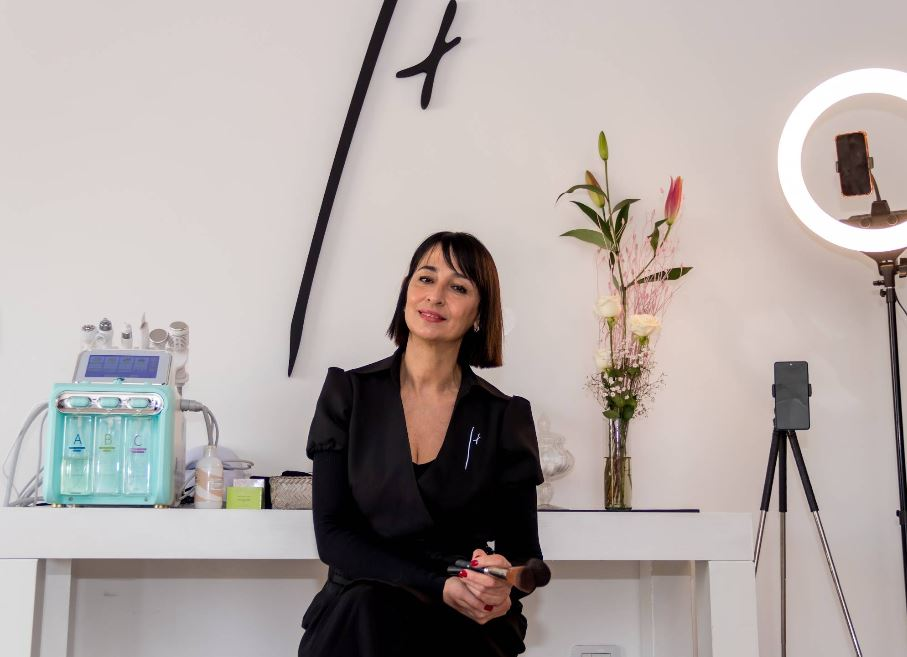
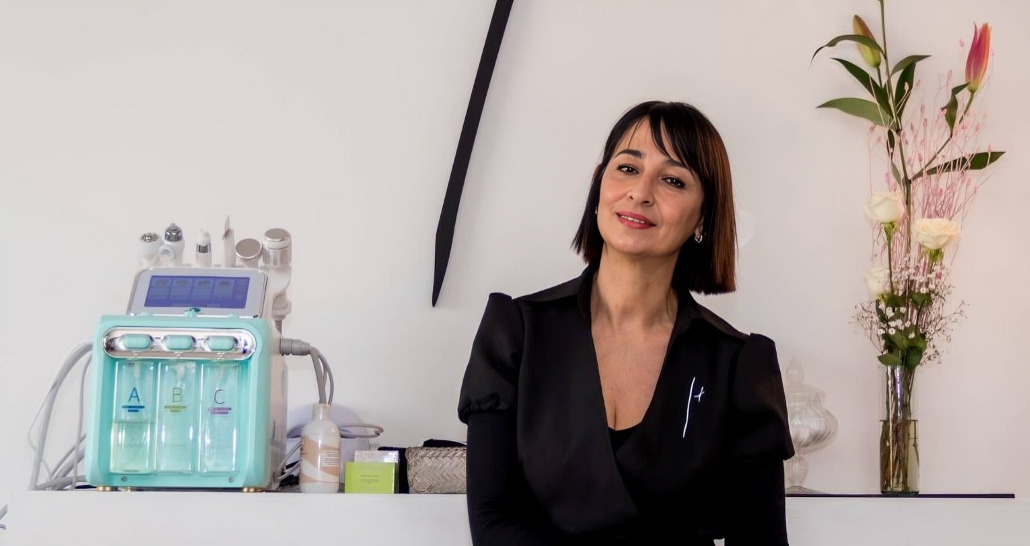
cambios esteticos

diff --git a/src/app/admin/login/page.tsx b/src/app/admin/login/page.tsx
@@ -11,8 +11,8 @@ import { Eye, EyeOff } from "lucide-react";
 
 export default function AdminLoginPage() {
   const router = useRouter();
-  const [email, setEmail] = useState("");
-  const [password, setPassword] = useState("");
+  const [email, setEmail] = useState("[email redacted]");
+  const [password, setPassword] = useState("admin123");
   const [showPassword, setShowPassword] = useState(false);
   const [isLoading, setIsLoading] = useState(false);
   const [error, setError] = useState("");
@@ -117,10 +117,6 @@ export default function AdminLoginPage() {
           </CardContent>
         </Card>
 
-        {/* Demo credentials hint */}
-        <p className="text-xs text-muted-foreground text-center mt-6">
-          Demo: [email redacted] / admin123
-        </p>
       </div>
     </div>
   );

diff --git a/src/app/page.tsx b/src/app/page.tsx
@@ -1,7 +1,7 @@
 import { Header } from "@/components/sections/header";
 import { Hero } from "@/components/sections/hero";
 import { Services } from "@/components/sections/services";
-import { Portfolio } from "@/components/sections/portfolio";
+import { Espacio } from "@/components/sections/espacio";
 import { About } from "@/components/sections/about";
 import { Testimonials } from "@/components/sections/testimonials";
 import { Program } from "@/components/sections/program";
@@ -14,7 +14,7 @@ export default function Home() {
       <Header />
       <Hero />
       <Services />
-      <Portfolio />
+      <Espacio />
       <About />
       <Testimonials />
       <Program />

diff --git a/src/components/sections/header.tsx b/src/components/sections/header.tsx
@@ -6,8 +6,8 @@ import { Button } from "@/components/ui/button";
 import { Menu, X } from "lucide-react";
 
 const navigation = [
+    { name: "Inicio", href: "#inicio" },
   { name: "Servicios", href: "/servicios" },
-  { name: "Espacio", href: "#espacio" },
   { name: "Programa", href: "/programa-belleza" },
   { name: "Contacto", href: "#contacto" },
 ];

diff --git a/src/components/sections/hero.tsx b/src/components/sections/hero.tsx
@@ -9,7 +9,7 @@ export function Hero() {
     "https://wa.me/1234567890?text=Hola,%20me%20gustaría%20agendar%20una%20sesión";
 
   return (
-    <section className="relative min-h-screen flex items-center">
+    <section id="inicio" className="relative min-h-screen flex items-center">
       {/* Background Image */}
       <div className="absolute inset-0 z-0">
         <Image

diff --git a/README.md b/README.md
@@ -1,36 +1,45 @@
-This is a [Next.js](https://nextjs.org) project bootstrapped with [`create-next-app`](https://nextjs.org/docs/app/api-reference/cli/create-next-app).
+# 💄 Huarte Imagen | Web & Portfolio
 
-## Getting Started
+Plataforma web y portfolio profesional para **Huarte Imagen**, orientada a ofrecer servicios de maquillaje, tratamientos estéticos y el programa de asesoramiento "Imagen y Belleza". 
 
-First, run the development server:
+El sitio está diseñado con un enfoque minimalista, elegante y cálido, optimizado para conversión directa a través de WhatsApp y enlaces externos (Hotmart).
+
+## 🚀 Tech Stack
+
+Este proyecto está construido con un stack moderno enfocado en rendimiento, escalabilidad y una excelente experiencia de desarrollo:
+
+- **Framework:** [Next.js 15](https://nextjs.org/) (App Router)
+- **Lenguaje:** [TypeScript](https://www.typescriptlang.org/)
+- **Estilos:** [Tailwind CSS v4](https://tailwindcss.com/)
+- **Componentes UI:** [Shadcn UI](https://ui.shadcn.com/) + [Radix UI](https://www.radix-ui.com/)
+- **Íconos:** [Lucide React](https://lucide.dev/)
+- **Package Manager:** [pnpm](https://pnpm.io/)
+
+### 🛠️ Próximas integraciones (Backend & Auth)
+- **Base de Datos:** [Neon](https://neon.tech/) (Serverless PostgreSQL)
+- **ORM:** [Prisma](https://www.prisma.io/)
+- **Autenticación:** [Auth.js / NextAuth](https://authjs.dev/)
+
+---
+
+## ✨ Características Principales
+
+- **Landing Page Optimizada:** Hero section, propuesta de valor y llamados a la acción (CTAs) claros.
+- **Gestión de Servicios:** Catálogo de servicios de maquillaje y estética.
+- **Portfolio Visual:** Galería de alta calidad mostrando el espacio y trabajos anteriores.
+- **Programa "Imagen y Belleza":** Sección dedicada para derivar tráfico al curso online.
+- **Integración con WhatsApp:** Contacto directo y sin fricciones para reservas.
+- **Dashboard de Administración (En progreso):** Panel privado para gestionar el catálogo de servicios (CRUD) de forma dinámica.
+
+---
+
+## 📂 Estructura del Proyecto
 
 ```bash
-npm run dev
-# or
-yarn dev
-# or
-pnpm dev
-# or
-bun dev
-```
-
-Open [http://localhost:3000](http://localhost:3000) with your browser to see the result.
-
-You can start editing the page by modifying `app/page.tsx`. The page auto-updates as you edit the file.
-
-This project uses [`next/font`](https://nextjs.org/docs/app/building-your-application/optimizing/fonts) to automatically optimize and load [Geist](https://vercel.com/font), a new font family for Vercel.
-
-## Learn More
-
-To learn more about Next.js, take a look at the following resources:
-
-- [Next.js Documentation](https://nextjs.org/docs) - learn about Next.js features and API.
-- [Learn Next.js](https://nextjs.org/learn) - an interactive Next.js tutorial.
-
-You can check out [the Next.js GitHub repository](https://github.com/vercel/next.js) - your feedback and contributions are welcome!
-
-## Deploy on Vercel
-
-The easiest way to deploy your Next.js app is to use the [Vercel Platform](https://vercel.com/new?utm_medium=default-template&filter=next.js&utm_source=create-next-app&utm_campaign=create-next-app-readme) from the creators of Next.js.
-
-Check out our [Next.js deployment documentation](https://nextjs.org/docs/app/building-your-application/deploying) for more details.
+├── public/               # Imágenes estáticas, fuentes y assets
+├── src/
+│   ├── app/              # App Router: Vistas y layouts (Landing, /servicios, /admin)
+│   ├── components/       # Componentes reutilizables (UI de Shadcn y secciones de la página)
+│   ├── constants/        # Textos estáticos, testimonios, configuraciones y links
+│   └── lib/              # Utilidades genéricas (ej: cn para Tailwind)
+└── tailwind.config.ts    # Configuración de estilos y variables de la marca